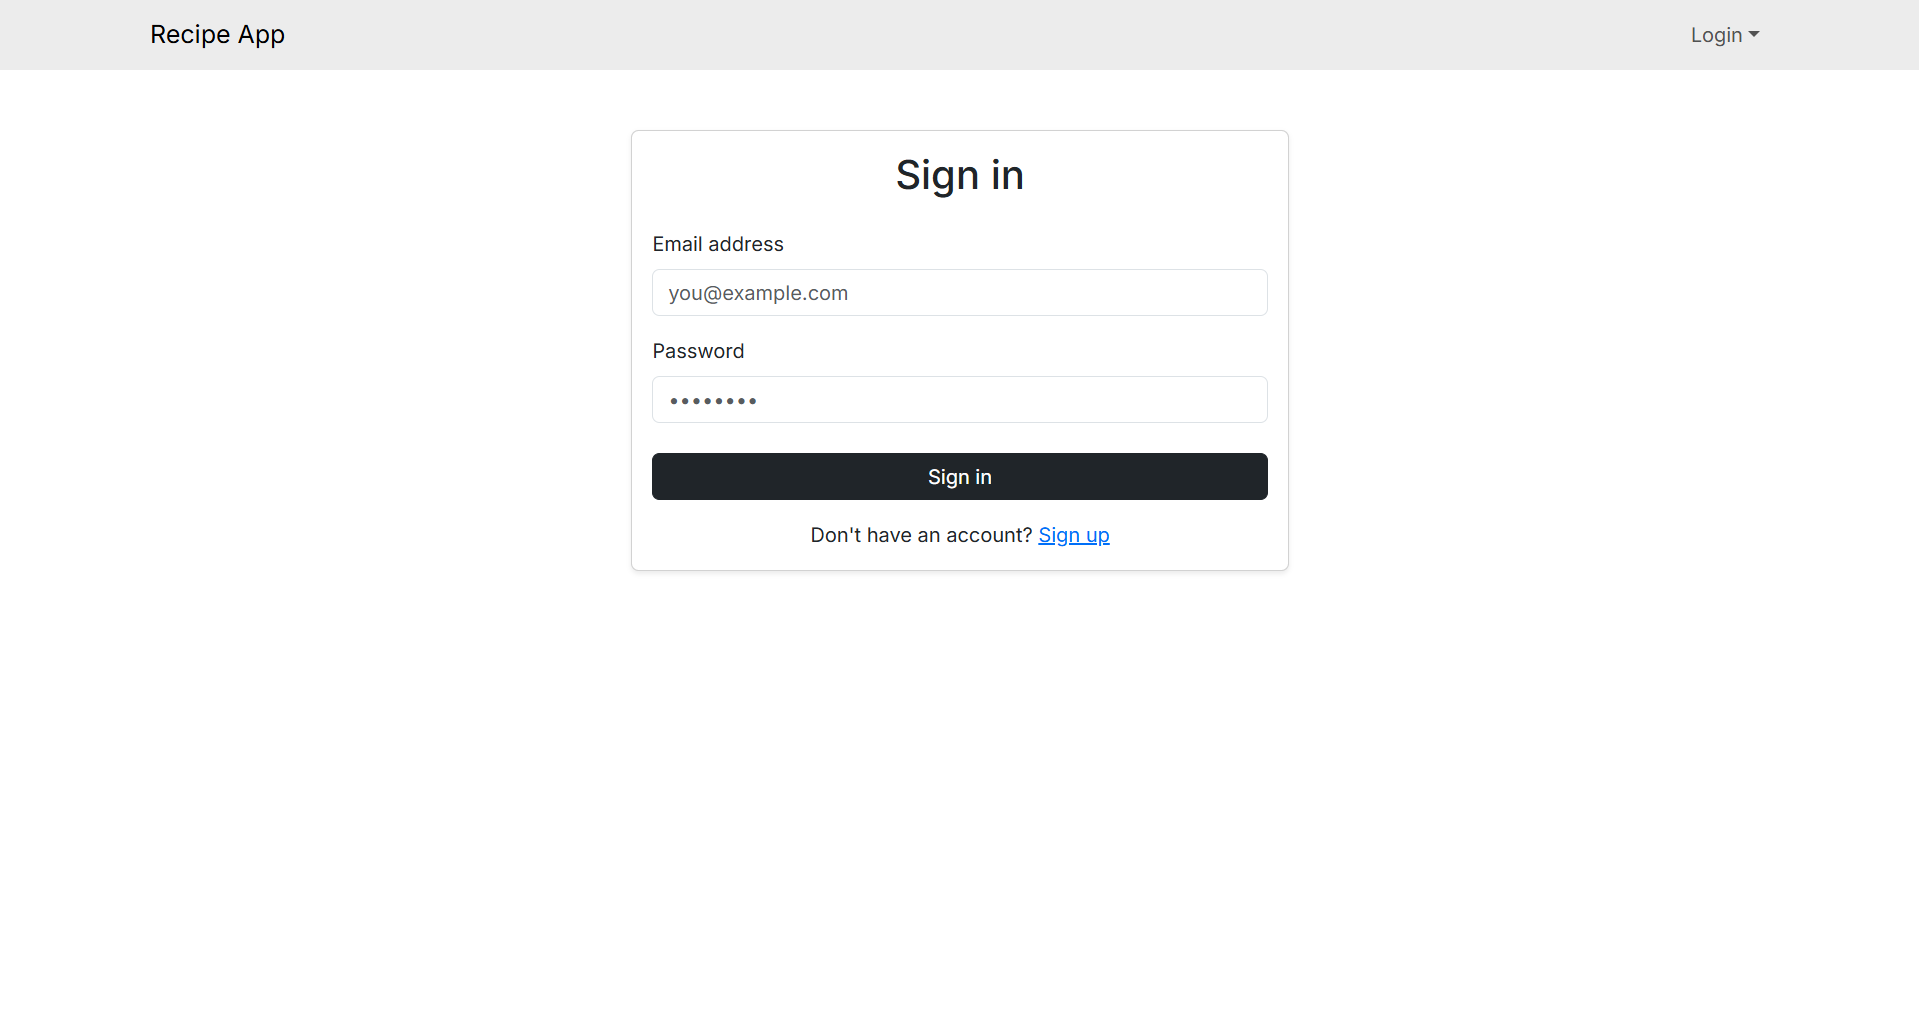
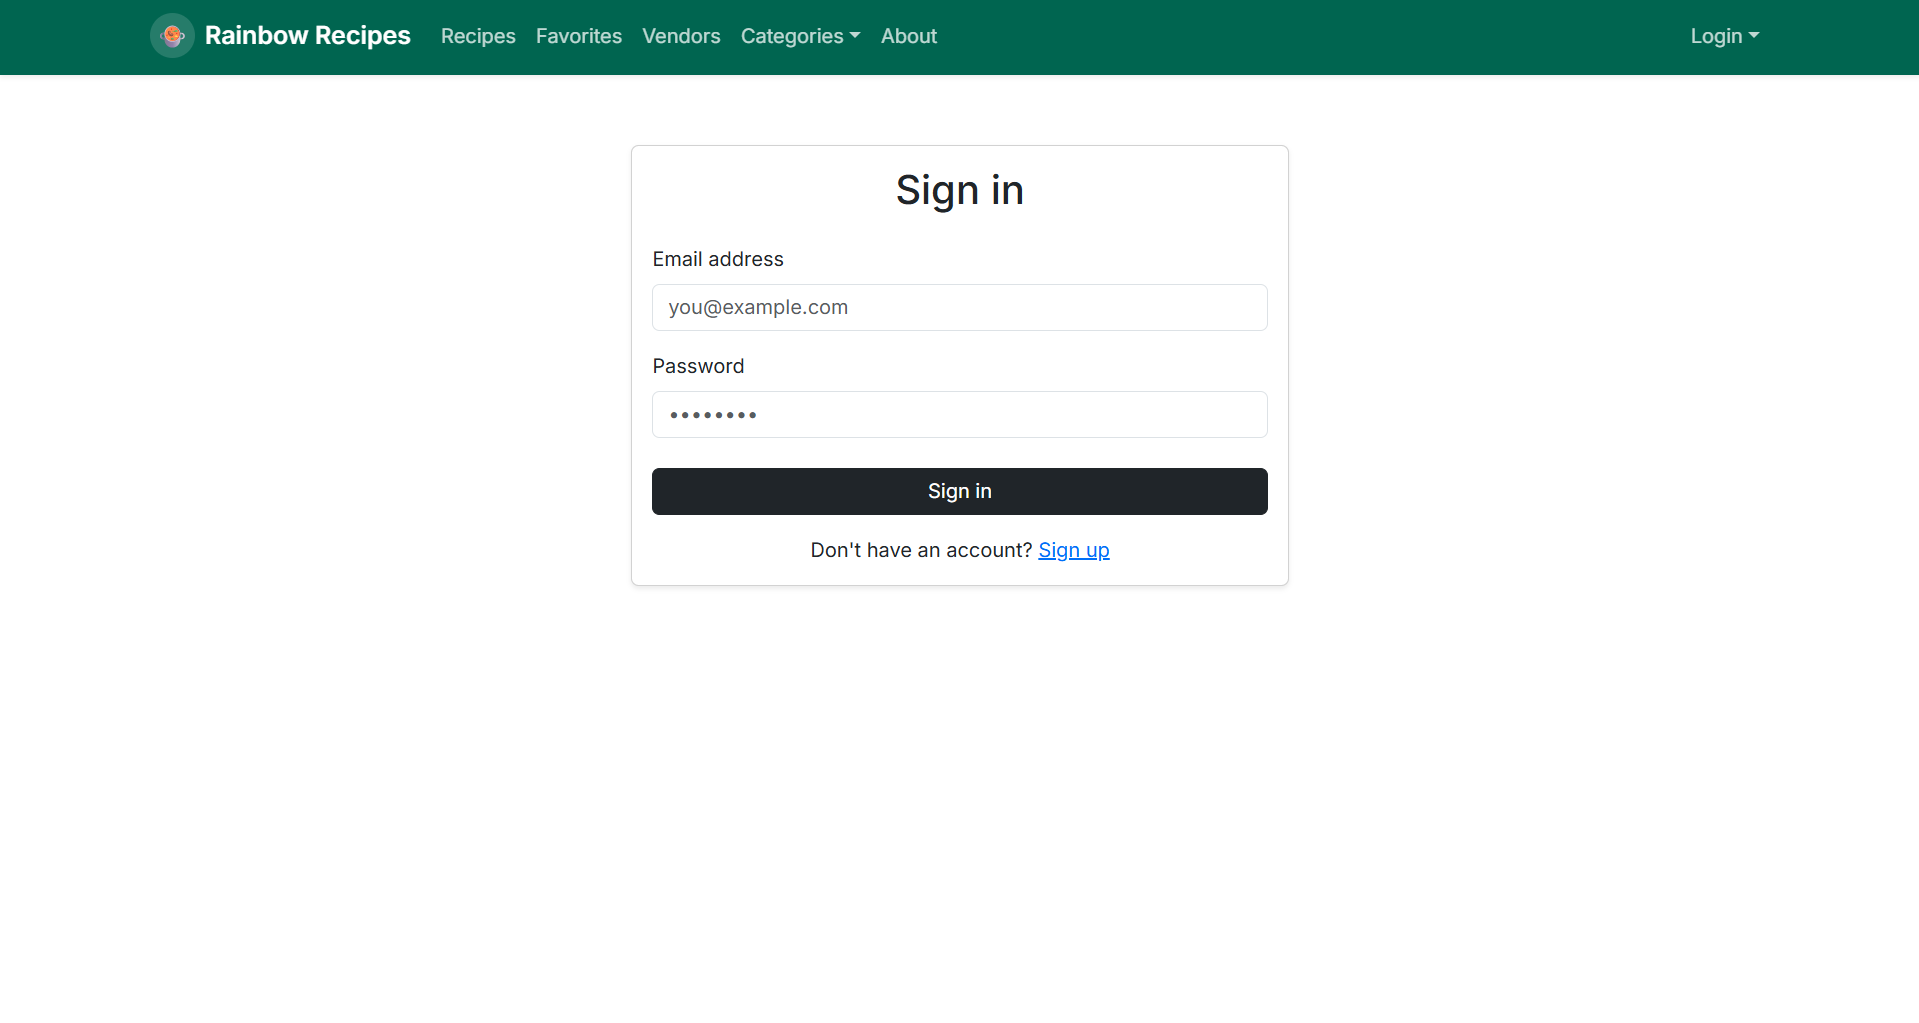
Updated new M1 screenshots

Changed region(s): [[0.0, 0.0, 1.0, 0.0909], [0.3382, 0.2121, 0.6764, 0.5758], [0.4612, 0.1515, 0.5534, 0.2121]]

diff --git a/index.md b/index.md
@@ -136,12 +136,6 @@ After implementing the basic functionality, here are ideas for more advanced fea
 <div style="box-shadow: 0px 0px 20px gray;">
   <img src="/images/m1-landing-page.png" />
 </div>
-<div style="box-shadow: 0px 0px 20px gray;">
-  <img src="/images/m1-landing-page2.png" />
-</div>
-<div style="box-shadow: 0px 0px 20px gray;">
-  <img src="/images/m1-landing-page3.png" />
-</div>
 
 ##### User Landing Page
 
@@ -162,13 +156,31 @@ After implementing the basic functionality, here are ideas for more advanced fea
 ##### Recipes Page
 
 <div style="box-shadow: 0px 0px 20px gray;">
-  <img src="/images/all-recipes-page.png" />
+  <img src="/images/m1-all-recipes-page.png" />
 </div>
 
 ##### Add Recipe Page
 
 <div style="box-shadow: 0px 0px 20px gray;">
   <img src="/images/m1-add-recipe-page.png" />
+</div>
+
+##### User's Recipe Page
+
+<div style="box-shadow: 0px 0px 20px gray;">
+  <img src="/images/m1-users-recipes-page.png" />
+</div>
+
+##### User's Favorites Page
+
+<div style="box-shadow: 0px 0px 20px gray;">
+  <img src="/images/m1-favorites-page.png" />
+</div>
+
+#### Vendor's Account Page
+
+<div style="box-shadow: 0px 0px 20px gray;">
+  <img src="/images/m1-mystore-page.png" />
 </div>
 
 #### Admin Page
